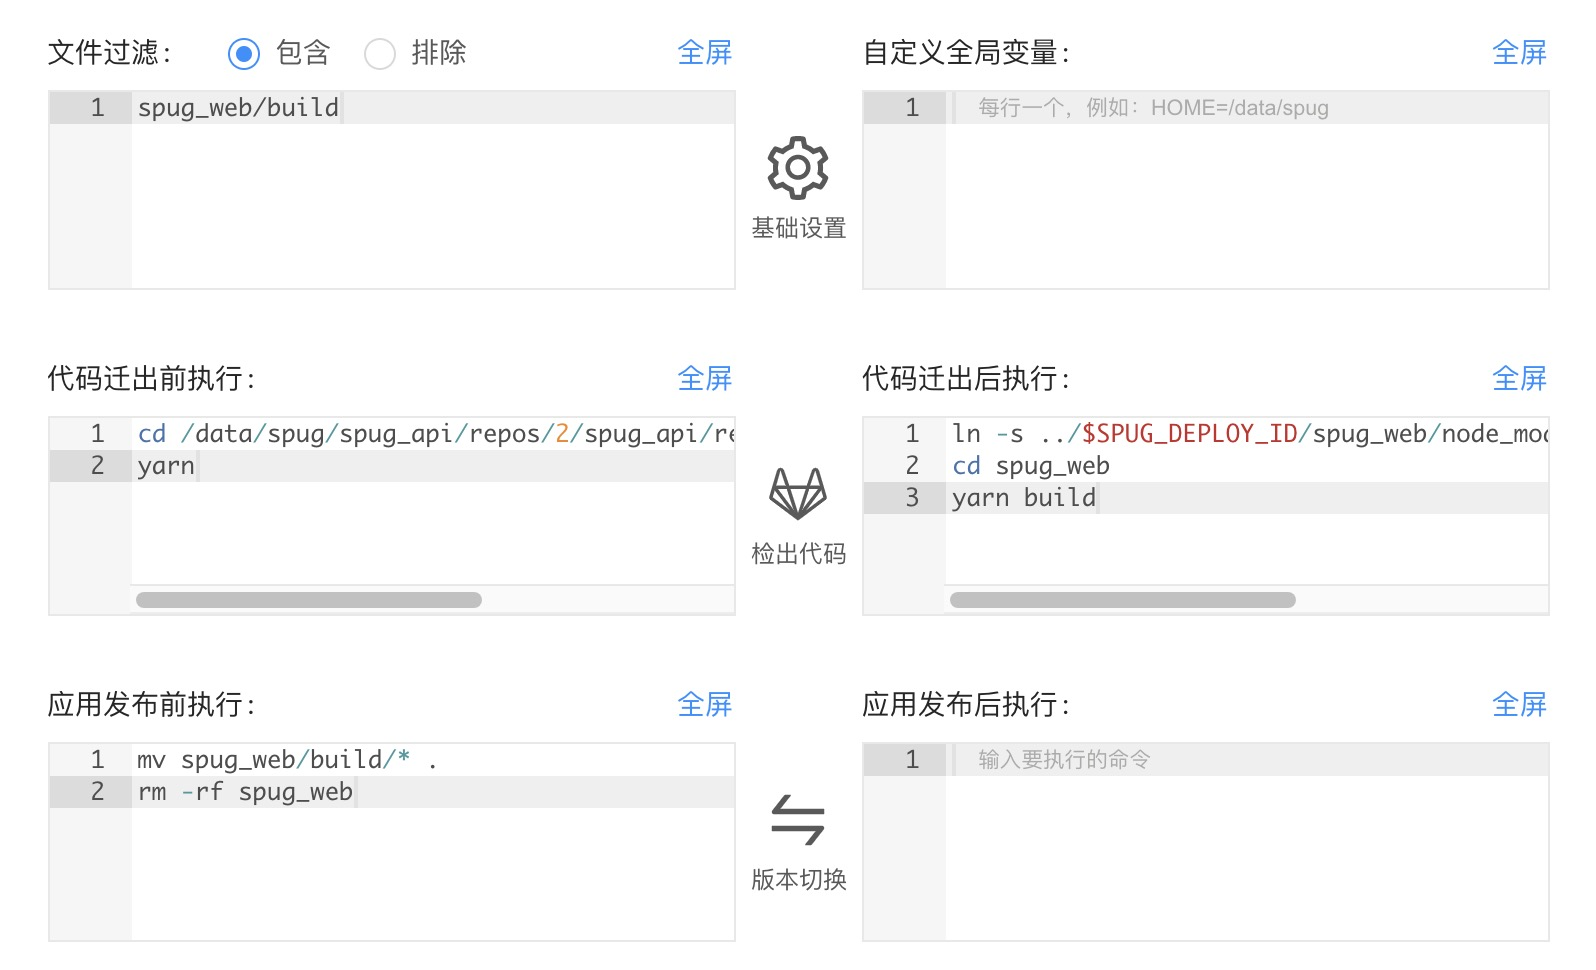
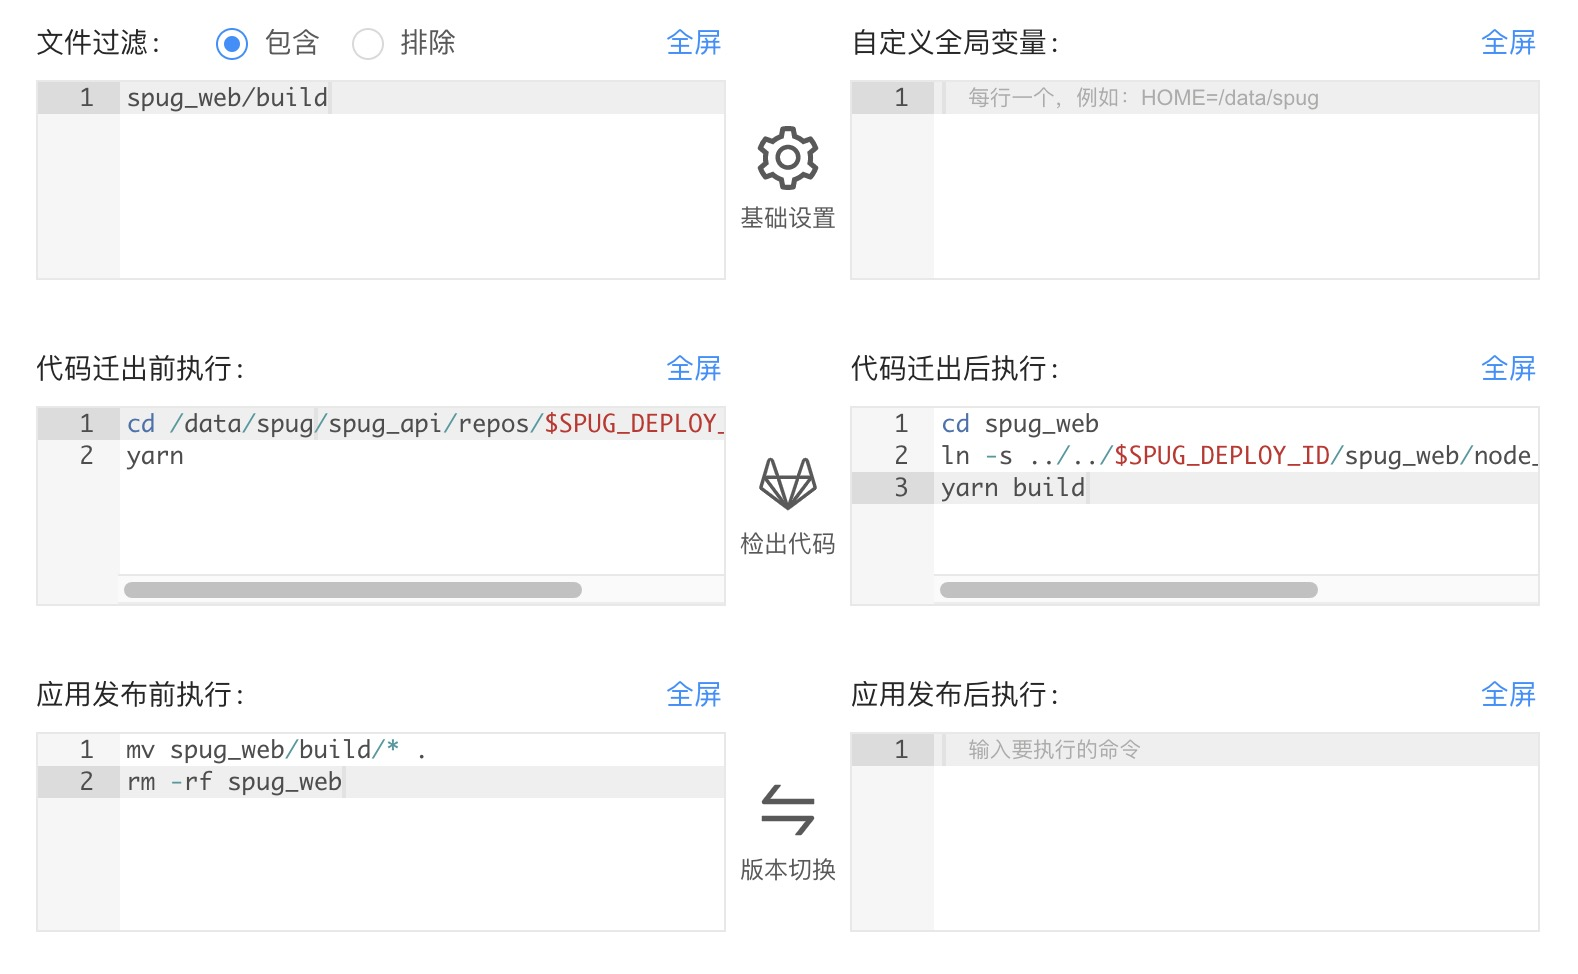
U 更新文档

diff --git a/docs/example-node.md b/docs/example-node.md
@@ -21,7 +21,7 @@ title: Node项目配置
 或 `yarn` 来安装。这里使用了 [全局环境变量](https://spug.dev/docs/deploy-config/#%E5%85%A8%E5%B1%80%E5%8F%98%E9%87%8F) 中的
 `SPUG_DEPLOY_ID` 来切换到源码目录执行依赖的安装。
 ```shell script
-cd /data/spug/spug_api/repos/2/spug_api/repos/$SPUG_DEPLOY_ID/spug_web
+cd /data/spug/spug_api/repos/$SPUG_DEPLOY_ID/spug_web
 yarn
 ```
 
@@ -29,8 +29,8 @@ yarn
 在这里进行项目的编译工作，该钩子中当前目录即为按发布申请中选择 `Git 分支/版本` 检出后的代码目录，我们需要先把上一步安装依赖生产的 `node_modules`
 目录链接到当前目录（这样可以避免每次都完整的执行`npm install`来重复安装依赖包），然后执行 `yarn build` 来进行项目编译。
 ```shell script
-ln -s ../$SPUG_DEPLOY_ID/spug_web/node_modules ./spug_web/node_modules
 cd spug_web
+ln -s ../../$SPUG_DEPLOY_ID/spug_web/node_modules ./node_modules
 yarn build
 ```
 编译后也就生成了我们在 **文件过滤** 中设置的 `spug_web/build` 目录。
